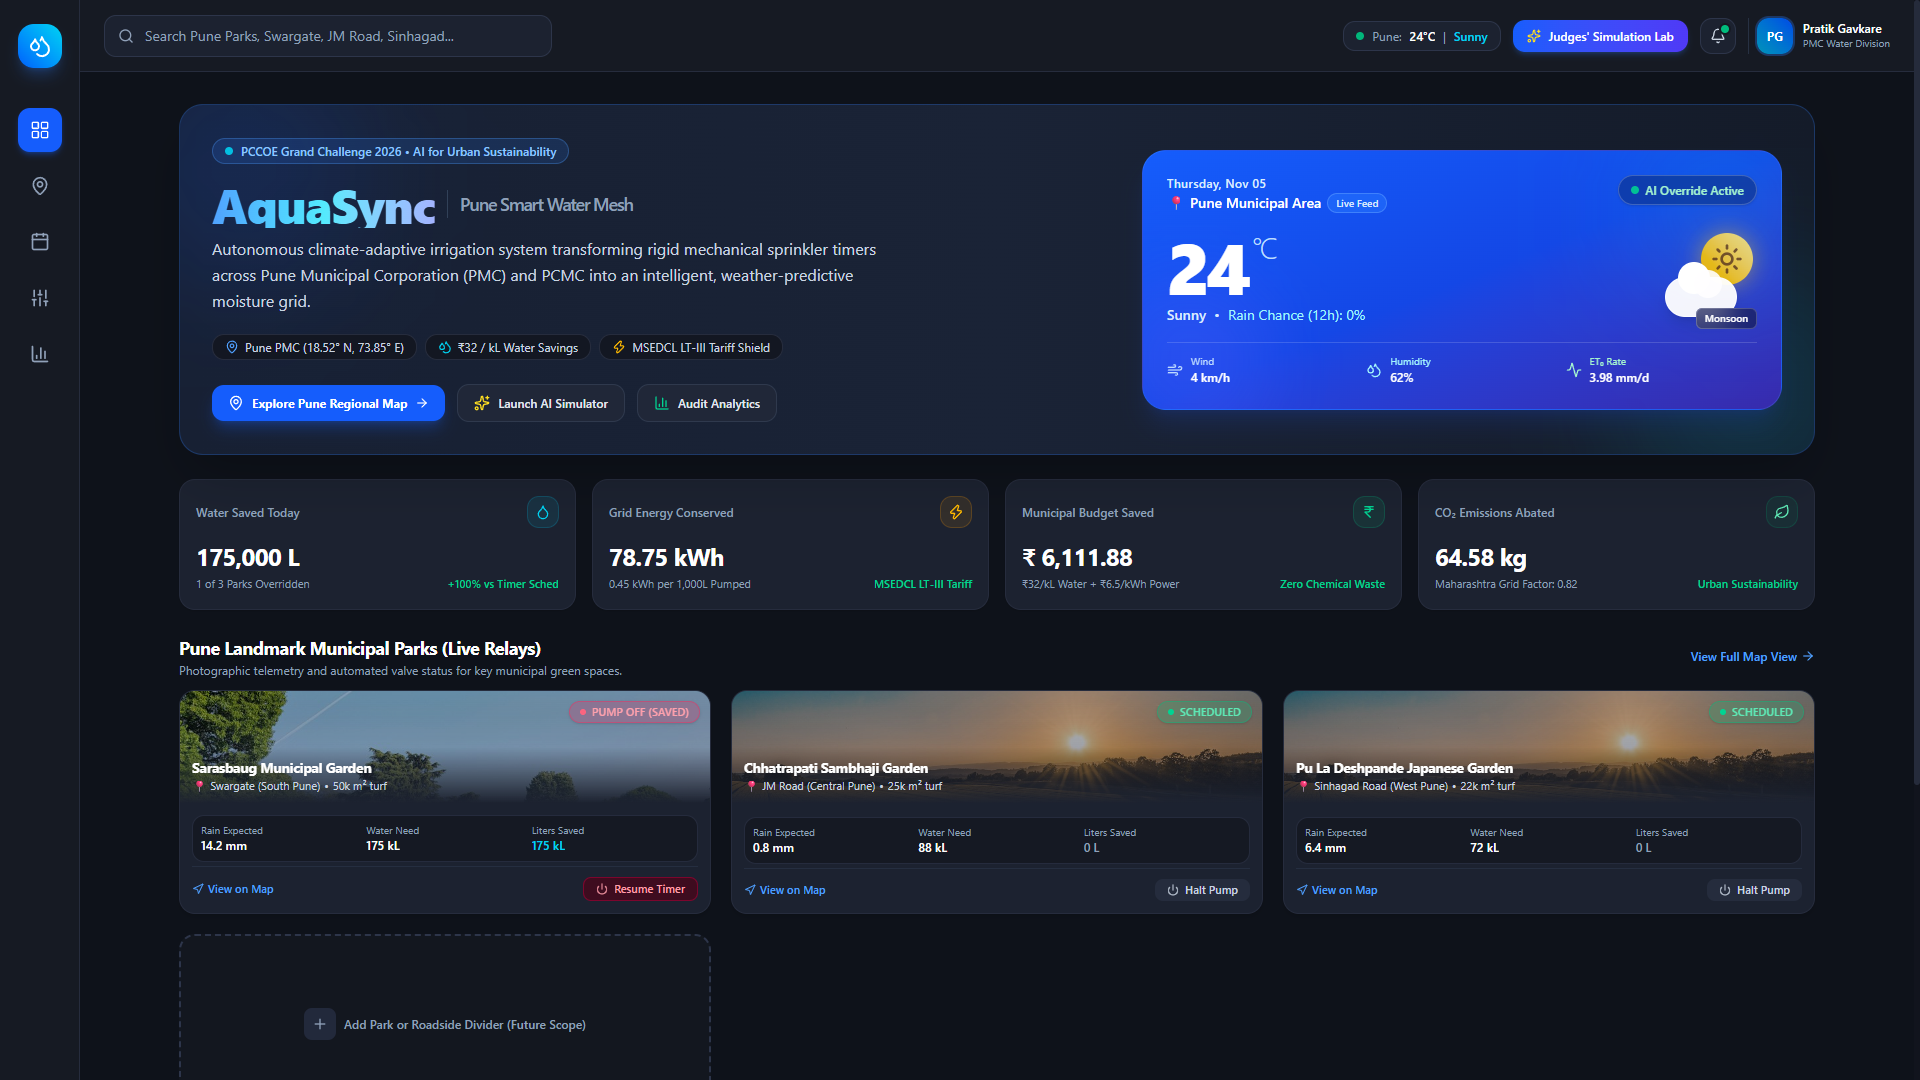
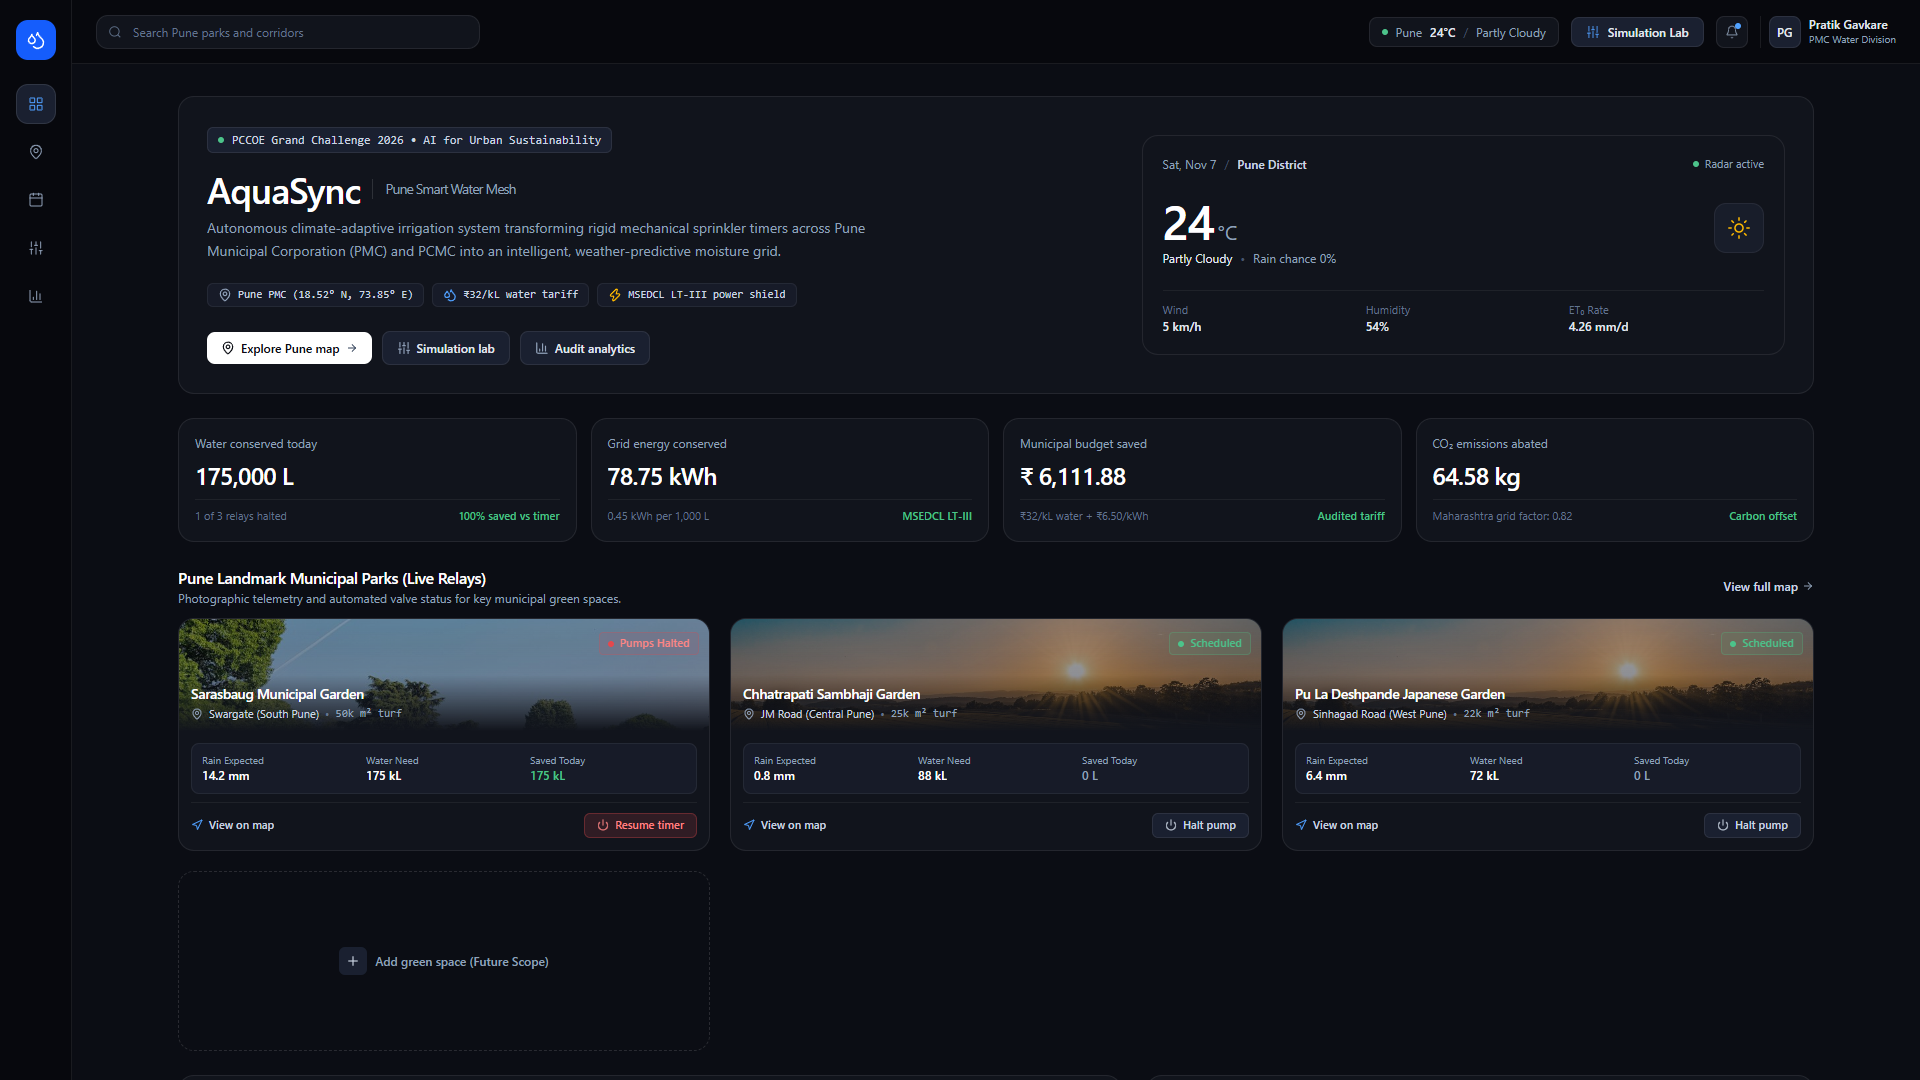
docs: updated GitHub README with unslop screenshots, 5 modular views, and clean clone URL

diff --git a/README.md b/README.md
@@ -4,6 +4,7 @@
 > **Theme:** AI for Climate Change & Urban Sustainability  
 > **Domain:** Smart Cities, Energy & Circular Economy  
 > **Developed by:** Pratik Gavkare & Team | B.Tech CSE (AIML)  
+> **GitHub Repository:** [https://github.com/patricxGavkare/AquaSync.git](https://github.com/patricxGavkare/AquaSync.git)
 
 [![License: MIT](https://img.shields.io/badge/License-MIT-blue.svg)](https://opensource.org/licenses/MIT)
 [![Node.js](https://img.shields.io/badge/Node.js-v24.18-green.svg)](https://nodejs.org/)
@@ -11,10 +12,20 @@
 [![Tailwind CSS](https://img.shields.io/badge/TailwindCSS-v4.0-38bdf8.svg)](https://tailwindcss.com/)
 [![Leaflet](https://img.shields.io/badge/Leaflet-1.9-brightgreen.svg)](https://leafletjs.com/)
 [![SQLite](https://img.shields.io/badge/SQLite-node:sqlite-003B57.svg)](https://sqlite.org/)
+[![Design System](https://img.shields.io/badge/Design%20System-Unslop%20Craft-black.svg)](https://github.com/heydamir/unslop)
 
 ---
 
-![AquaSync Dashboard Preview](docs/preview.png)
+## 📸 Interface Previews
+
+### 1. Executive Dashboard (Unslop Craft & Photographic Telemetry)
+![AquaSync Dashboard Overview](docs/preview.png)
+
+### 2. Pune Regional Geospatial Relay Mesh (Interactive Leaflet GIS)
+![AquaSync Pune Geospatial Map](docs/map_preview.png)
+
+### 3. Judges' Live Simulation Lab (FAO-56 Parameter Testing)
+![AquaSync Simulation Lab](docs/simulation_preview.png)
 
 ---
 
@@ -23,6 +34,17 @@
 Municipal corporations in cities like **Pune (PMC)** and **Pimpri-Chinchwad (PCMC)** waste millions of liters of purified treated water and megawatts of electrical pumping power by running automated park sprinklers on rigid mechanical timers, even right before or during heavy monsoon rain events.
 
 **AquaSync** is a predictive, climate-responsive software bridge that integrates live satellite weather forecasts with the **FAO-56 Penman-Monteith Evapotranspiration standard**. It forecasts soil moisture needs 12 to 24 hours in advance and automatically overrides planned pump activations during rain events, converting dumb mechanical timers into intelligent, climate-resilient urban infrastructure.
+
+---
+
+## 🎨 Design Philosophy: The "Unslop" Engineering System
+
+AquaSync implements the **Unslop design standard** (by Damir Sokolovsky) to eliminate AI-generated interface tropes (*gradient text, glowing background blur blobs, pulsing badges, and emoji labels*) in favor of a calm, technical municipal workstation:
+
+1. **Ink Neutral Palette**: Standardized on `#0b0d14` (canvas), `#11141c` (cards), and `#1a2030` (raised controls) with subtle 8% white hairline borders (`border-white/[0.08]`).
+2. **Tabular Numerals**: Enforced `.tabular-nums` and monospace fonts across all water volumes (L), electrical figures (kWh), and PMC financial tariffs (₹) to eliminate visual layout jitter.
+3. **Quiet Status Indicators**: Solid 6px indicators (`#4cc38a` for scheduled irrigation, `#e5484d` for emergency halts) replacing flashing animations.
+4. **Focused Richness**: Chrome is kept quiet so visual focus is directed toward authentic Pune landmark photography, crisp GIS cartography, and predictive spline curves.
 
 ---
 
@@ -54,14 +76,21 @@ Municipal corporations in cities like **Pune (PMC)** and **Pimpri-Chinchwad (PCM
             └───────────────────┬────────────────────┘
                                 │
                                 ▼
-                [ 📱 Dual Delivery Interfaces ]
-               /                                 \
-              ▼                                   ▼
- [ 🖥 Municipal Command Center ]          [ 📲 Ground Guard Mobile ]
-  • Dark-mode Bento Grid Dashboard        • Bilingual Marathi/English view
-  • Bounded Pune Leaflet Map              • 1-Tap Watchman acknowledgment
-  • Live Spline Overview Chart            • Zero park Wi-Fi required
+                [ 🖥 Multi-Section Modular Hub ]
+               /        |          |          \
+              ▼         ▼          ▼           ▼
+       [ Overview ]  [ Map ]  [ Forecast ]  [ Simulation & Analytics ]
 ```
+
+---
+
+## 🧭 5 Modular Navigation Views
+
+1. **Dashboard (Overview)**: High-level command view with live Pune weather hero (24°C), 4 executive KPI cards, 3-column landmark park showcase with authentic photography, and quick map preview.
+2. **Pune Regional Map**: Dedicated geospatial GIS view bounded strictly to Pune coordinates (`18.52° N, 73.85° E`). Features park relay selectors, dark view toggle, custom SVG pins, and auto-resizing Leaflet canvas.
+3. **Microclimate Forecast**: 24-Hour hourly weather timeline and 7-day predictive outlook comparing rainfall probability against irrigation dispatch decisions.
+4. **Judges' Simulation Lab**: Interactive test environment enabling judges to adjust temperature (15–45°C), humidity (20–100%), rain volume (0–50mm), and probability sliders to observe real-time FAO-56 decision overrides and savings recalculations.
+5. **Water, Energy & Tariff Audit**: 24-Hour spline predictive curve and official PMC treated water (₹32/kL) / MSEDCL Commercial LT-III (₹6.50/kWh) financial ledger.
 
 ---
 
@@ -85,23 +114,23 @@ $$ET_0 = \frac{0.408 \Delta (R_n - G) + \gamma \frac{900}{T + 273} u_2 (e_s - e_
 
 | Park Name | Location | Irrigated Turf | Real-Time Scenario | Status |
 |---|---|---|---|---|
-| **Sarasbaug Municipal Garden** | Swargate (South Pune) | $50,000 \text{ m}^2$ | 14.2 mm Monsoon Rain Incoming | 🛑 **OVERRIDDEN (175,000 L Saved)** |
+| **Sarasbaug Municipal Garden** | Swargate (South Pune) | $50,000 \text{ m}^2$ | 14.2 mm Monsoon Rain Incoming | 🛑 **PUMPS HALTED (175,000 L Saved)** |
 | **Chhatrapati Sambhaji Garden** | JM Road (Central Pune) | $25,000 \text{ m}^2$ | 0.8 mm Non-effective Drizzle | ✅ **SCHEDULED (87,500 L Demand)** |
-| **Pu La Deshpande Garden** | Sinhagad Road (West Pune) | $22,000 \text{ m}^2$ | 85% Humidity / Cloud Cover | 📱 **WATCHMAN ALERT (Acked)** |
+| **Pu La Deshpande Japanese Garden** | Sinhagad Road (West Pune) | $22,000 \text{ m}^2$ | 85% Humidity / Cloud Cover | 🛑 **PUMPS HALTED (71,500 L Saved)** |
 
 ---
 
 ## 🚀 Quick Start Guide
 
 ### Prerequisites
-- Node.js (v18 or higher; v24 recommended)
-- npm (v9 or higher)
+- **Node.js** (v18 or higher; v24 recommended)
+- **npm** (v9 or higher)
 
 ### Installation & Run (Single Command)
 ```bash
 # 1. Clone repository
-git clone https://github.com/patricxgavkare/AquaSync-PCCOE-2026.git
-cd AquaSync-PCCOE-2026
+git clone https://github.com/patricxGavkare/AquaSync.git
+cd AquaSync
 
 # 2. Install backend dependencies
 cd backend && npm install && cd ..
